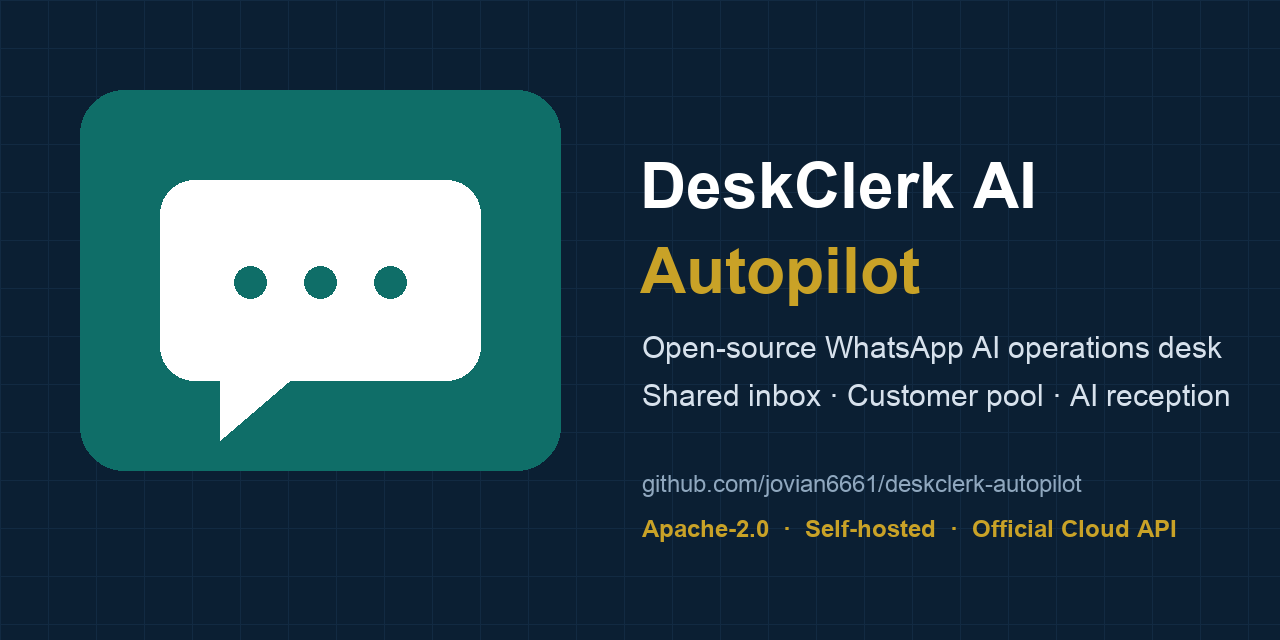
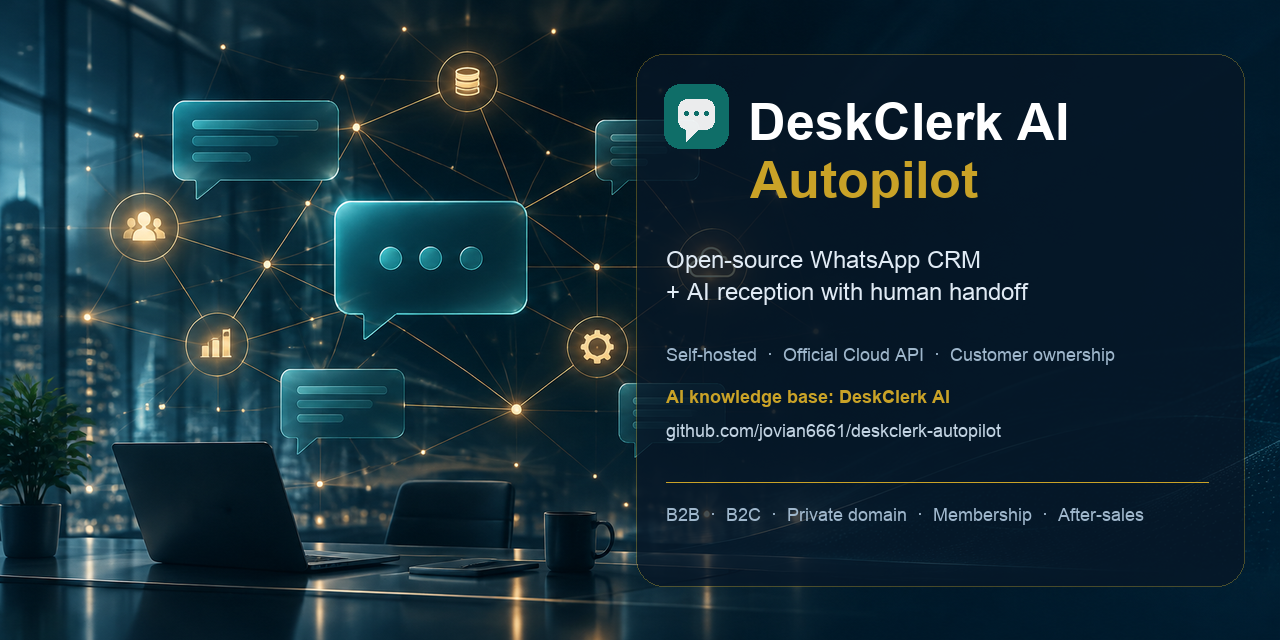
Add contribution workflow, AI knowledge base badge and AI poster
Document the full issue-to-release contributor path, add the DeskClerk AI
knowledge-base badge and links, and replace the social preview with an
AI-generated poster carrying exact brand text.

diff --git a/docs/CONTRIBUTING-WORKFLOW.md b/docs/CONTRIBUTING-WORKFLOW.md
@@ -1,0 +1,185 @@
+# Contribution workflow
+
+This document explains how an outside contributor gets a change into the repository. The short version: **open an issue, fork, branch, test, pull request, CI, review, merge, release.**
+
+## 1. The flow
+
+```text
+Find or open an issue
+        │
+        ▼
+Maintainer agrees on scope (large changes only)
+        │
+        ▼
+Fork the repository
+        │
+        ▼
+Create a branch
+        │
+        ▼
+Change code + tests + docs
+        │
+        ▼
+Run ./scripts/run_all_tests.sh --quick
+        │
+        ▼
+Open a pull request
+        │
+        ├── CI: tests
+        ├── CI: CodeQL
+        └── Review by a maintainer
+                │
+                ├── changes requested ──► update the same branch
+                └── approved
+                        │
+                        ▼
+                     Merge
+                        │
+                        ▼
+                 Release when ready
+```
+
+## 2. Before writing code
+
+| Change type | What to do |
+|---|---|
+| Typo, docs, translation | Open a pull request directly |
+| Small bug with reproduction | Open an issue, then a pull request |
+| New feature or behavior change | Open an issue first and wait for scope agreement |
+| Security vulnerability | Follow [SECURITY.md](../SECURITY.md), never a public issue |
+| Large refactor or new dependency | Open an issue first; explain the trade-off |
+
+This prevents a contributor from spending days on a change that does not fit the project.
+
+## 3. Fork and branch
+
+Fork the repository on GitHub, then:
+
+```bash
+git clone https://github.com/<your-account>/deskclerk-autopilot.git
+cd deskclerk-autopilot
+git remote add upstream https://github.com/jovian6661/deskclerk-autopilot.git
+git checkout -b fix/pool-protection-period
+```
+
+Branch names:
+
+| Prefix | Use |
+|---|---|
+| `feat/` | new capability |
+| `fix/` | bug fix |
+| `docs/` | documentation only |
+| `test/` | test improvements |
+| `refactor/` | behavior-preserving cleanup |
+| `chore/` | tooling, CI, dependencies |
+
+Keep the branch focused. One concern per pull request.
+
+## 4. Make the change
+
+- Read the relevant file in `docs/` before changing a rule.
+- Add or update a test for behavior changes.
+- Update the document that describes the rule, field, endpoint or permission.
+- Do not commit secrets, customer data, database files, screenshots with personal data, or generated `data/`.
+- AI-assisted contributions are welcome. You are responsible for correctness, licensing and testing.
+
+## 5. Run the tests
+
+Before opening the pull request:
+
+```bash
+./scripts/run_all_tests.sh --quick
+```
+
+Before a release, or when touching permissions, the pool, AI flows or the database layer:
+
+```bash
+./scripts/run_all_tests.sh --full
+```
+
+The suite starts its own servers and temporary databases. It does not touch `data/app.db`.
+
+## 6. Open the pull request
+
+Use the pull request template. Include:
+
+- the problem;
+- what changed;
+- how you tested it;
+- screenshots for UI changes;
+- documentation updates;
+- anything reviewers should know: migrations, behavior changes, follow-ups.
+
+The CI runs automatically:
+
+- `tests` — API, fuzz, edge/security/performance, UI and smoke;
+- `CodeQL` — Python and JavaScript analysis.
+
+A pull request is not merged while a required check is failing.
+
+## 7. Review
+
+A maintainer will review for:
+
+- correctness and edge cases;
+- permission and data-scope enforcement;
+- backward compatibility;
+- test coverage;
+- documentation;
+- security and secret handling.
+
+Reviews are best-effort. A small, focused pull request with a clear test gets reviewed faster than a large one.
+
+If changes are requested, push more commits to the same branch. Do not open a second pull request for the same change.
+
+## 8. Merge
+
+The maintainer merges after:
+
+- CI is green;
+- the change is reviewed;
+- the documentation is updated;
+- no secrets or customer data are included.
+
+Squash merge is preferred for a clean history. The contributor remains credited in the commit or release notes.
+
+## 9. Release
+
+Maintainers follow [RELEASING.md](RELEASING.md):
+
+- update `CHANGELOG.md`;
+- bump the version under Semantic Versioning;
+- tag `vX.Y.Z`;
+- publish a GitHub Release;
+- write migration notes if the database changed.
+
+## 10. Labels
+
+| Label | Meaning |
+|---|---|
+| `good first issue` | small, well-scoped, good entry point |
+| `help wanted` | maintainers would welcome a contributor |
+| `bug` | confirmed defect |
+| `enhancement` | new capability or improvement |
+| `documentation` | docs, examples, translations |
+| `security` | security-sensitive; do not discuss details publicly |
+| `needs triage` | not yet reviewed |
+| `dependencies` | dependency update |
+| `ci` | workflow or tooling |
+
+## 11. What maintainers do
+
+- Triage issues and label them.
+- Confirm scope before large work.
+- Review pull requests and run the full suite before release.
+- Keep `main` releasable.
+- Protect secrets and customer data.
+- Follow [GOVERNANCE.md](../GOVERNANCE.md).
+
+## 12. What contributors should not do
+
+- Do not push directly to `main`; use a pull request.
+- Do not include real customer data or API keys.
+- Do not add an unofficial WhatsApp gateway.
+- Do not remove license, security or trademark notices.
+- Do not use the DeskClerk name or logo as the branding of a fork.

diff --git a/README.md b/README.md
@@ -15,6 +15,7 @@
   <a href="https://www.python.org/"><img alt="Python 3.9+" src="https://img.shields.io/badge/python-3.9%2B-3776AB.svg"></a>
   <a href="Dockerfile"><img alt="Docker ready" src="https://img.shields.io/badge/Docker-ready-2496ED.svg"></a>
   <a href="https://github.com/jovian6661/deskclerk-autopilot/releases"><img alt="GitHub release" src="https://img.shields.io/github/v/release/jovian6661/deskclerk-autopilot?include_prereleases&sort=semver"></a>
+  <a href="https://deskclerkai.com/?utm_source=github&utm_medium=readme&utm_campaign=ai_badge"><img alt="AI knowledge base: DeskClerk AI" src="https://img.shields.io/badge/AI%20knowledge%20base-DeskClerk%20AI-0F6E68.svg"></a>
   <a href="SECURITY.md"><img alt="Security policy" src="https://img.shields.io/badge/security-policy-blueviolet.svg"></a>
   <a href="CODE_OF_CONDUCT.md"><img alt="Contributor Covenant 2.1" src="https://img.shields.io/badge/Contributor%20Covenant-2.1-4baaaa.svg"></a>
   <a href="CONTRIBUTING.md"><img alt="PRs welcome" src="https://img.shields.io/badge/PRs-welcome-brightgreen.svg"></a>
@@ -297,6 +298,8 @@ Detailed guide: [docs/WhatsApp-账号体系与接入.md](docs/WhatsApp-账号体
 
 ## AI reception
 
+> **Recommended AI brain:** [DeskClerk AI Knowledge Base](https://deskclerkai.com/?utm_source=github&utm_medium=readme&utm_campaign=ai_section) — first-class integration out of the box. Any other knowledge base can be adapted behind the same contract.
+
 This is not a generic chatbot wrapper that forwards every message to a model. The AI is wired into the WhatsApp workflow: it reads the incoming message, retrieves from a knowledge base, decides whether it is safe to answer, writes either a draft or a reply, and escalates to a human when the evidence is weak or the topic is sensitive.
 
 ### WhatsApp AI chatbot grounded in your knowledge base
@@ -426,6 +429,8 @@ GitHub Actions runs the full suite on every push and pull request. CodeQL and De
 | Security | Private vulnerability disclosure |
 | Community | Contributor Covenant 2.1 |
 | Governance | Maintainer-led, documented in [GOVERNANCE.md](GOVERNANCE.md) |
+| Contribution flow | [docs/CONTRIBUTING-WORKFLOW.md](docs/CONTRIBUTING-WORKFLOW.md) |
+| Release process | [docs/RELEASING.md](docs/RELEASING.md) |
 | Support | [SUPPORT.md](SUPPORT.md) |
 | Roadmap | [ROADMAP.md](ROADMAP.md) |
 | Citation | [CITATION.cff](CITATION.cff) |
@@ -470,7 +475,16 @@ See [ROADMAP.md](ROADMAP.md). Near-term work includes password change, Postgres 
 
 ## Contributing
 
-Issues and pull requests are welcome. Read [CONTRIBUTING.md](CONTRIBUTING.md) first. For security issues, follow [SECURITY.md](SECURITY.md) instead of opening a public issue.
+Issues and pull requests are welcome. Read [CONTRIBUTING.md](CONTRIBUTING.md) and the full [contribution workflow](docs/CONTRIBUTING-WORKFLOW.md) first. For security issues, follow [SECURITY.md](SECURITY.md) instead of opening a public issue.
+
+The contribution path is:
+
+```text
+Issue → scope agreement → fork → branch → code + tests + docs
+     → pull request → CI + CodeQL → review → merge → release
+```
+
+Contributors do not push directly to `main`. A maintainer merges after CI is green and the change is reviewed. Large features need an issue first so scope is agreed before code is written.
 
 Good first contributions:
 
@@ -478,6 +492,8 @@ Good first contributions:
 - provider adapters for other knowledge bases;
 - tests for edge cases in pool and permission rules;
 - deployment examples for Caddy, Nginx and systemd.
+
+Release mechanics are documented in [docs/RELEASING.md](docs/RELEASING.md).
 
 ## License, trademark and attribution
 

diff --git a/docs/RELEASING.md b/docs/RELEASING.md
@@ -1,0 +1,68 @@
+# Releasing
+
+## Versioning
+
+The project follows Semantic Versioning:
+
+- `MAJOR` — breaking API, database or behavior change;
+- `MINOR` — new backward-compatible capability;
+- `PATCH` — backward-compatible fix.
+
+Before `1.0.0`, minor versions may include breaking changes, but they must be called out in the release notes.
+
+## Checklist
+
+1. Confirm the scope is merged on `main`.
+2. Run the full suite:
+
+   ```bash
+   ./scripts/run_all_tests.sh --full
+   ```
+
+3. Update `CHANGELOG.md`:
+   - move relevant items from `Unreleased`;
+   - add the version and date;
+   - add a link to the compare view.
+4. Update the version in `CITATION.cff`.
+5. Commit the release preparation.
+6. Tag:
+
+   ```bash
+   git tag -a vX.Y.Z -m "vX.Y.Z"
+   git push origin main --tags
+   ```
+
+7. Create a GitHub Release from the tag.
+8. Include:
+   - highlights;
+   - breaking changes;
+   - upgrade and migration steps;
+   - database backup reminder;
+   - full changelog link.
+9. Verify the release badge and README links.
+10. Announce only after the release page is live.
+
+## Database changes
+
+If the schema changed:
+
+- test an upgrade from the previous release database;
+- test a fresh database;
+- write the backup and migration steps in the release notes;
+- never tell users to delete their production database as an upgrade step.
+
+## Security releases
+
+- Do not publish exploit details before a fix is available.
+- Credit the reporter if they want credit.
+- Publish the minimum affected versions.
+- Add a `Security` section to the changelog.
+
+## Rollback
+
+If a release is broken:
+
+- mark the GitHub Release as a pre-release or add a clear warning;
+- publish a patched release;
+- do not delete the old tag;
+- document the rollback steps.

diff --git a/README.zh-CN.md b/README.zh-CN.md
@@ -15,7 +15,8 @@
   <a href="#应用场景">应用场景</a> ·
   <a href="#ai-能力">AI 能力</a> ·
   <a href="#快速开始">快速开始</a> ·
-  <a href="docs/">文档</a>
+  <a href="docs/">文档</a> ·
+  <a href="https://deskclerkai.com/?utm_source=github&utm_medium=readme_zh&utm_campaign=ai_badge">DeskClerk AI 知识库</a>
 </p>
 
 > 本项目是独立开源项目，与 WhatsApp / Meta 没有隶属、背书或赞助关系。WhatsApp 是 Meta Platforms, Inc. 的商标。

diff --git a/CONTRIBUTING.md b/CONTRIBUTING.md
@@ -2,6 +2,8 @@
 
 Thanks for taking the time to contribute.
 
+The full flow — issue, fork, branch, tests, pull request, CI, review, merge and release — is in [docs/CONTRIBUTING-WORKFLOW.md](docs/CONTRIBUTING-WORKFLOW.md). Release mechanics are in [docs/RELEASING.md](docs/RELEASING.md).
+
 ## Before you start
 
 - For a bug, open an issue with the version, steps to reproduce and what you expected.

diff --git a/docs/README.md b/docs/README.md
@@ -37,6 +37,8 @@ Start with the [project README](../README.md). These documents go deeper into th
 
 - [Security policy](../SECURITY.md)
 - [Contributing](../CONTRIBUTING.md)
+- [Contribution workflow](CONTRIBUTING-WORKFLOW.md)
+- [Releasing](RELEASING.md)
 - [Governance](../GOVERNANCE.md)
 - [Trademark and brand](../TRADEMARK.md)
 - [Changelog](../CHANGELOG.md)

diff --git a/docs/AI知识库接入.md b/docs/AI知识库接入.md
@@ -2,6 +2,7 @@
 
 > 适用系统：DeskClerk AI Autopilot
 > 最后更新：2026-11-12
+> 推荐知识库：[DeskClerk AI](https://deskclerkai.com/?utm_source=github&utm_medium=docs&utm_campaign=ai_doc)（原生适配；其他知识库可按同一契约接入）
 
 ## 一、配置
 
